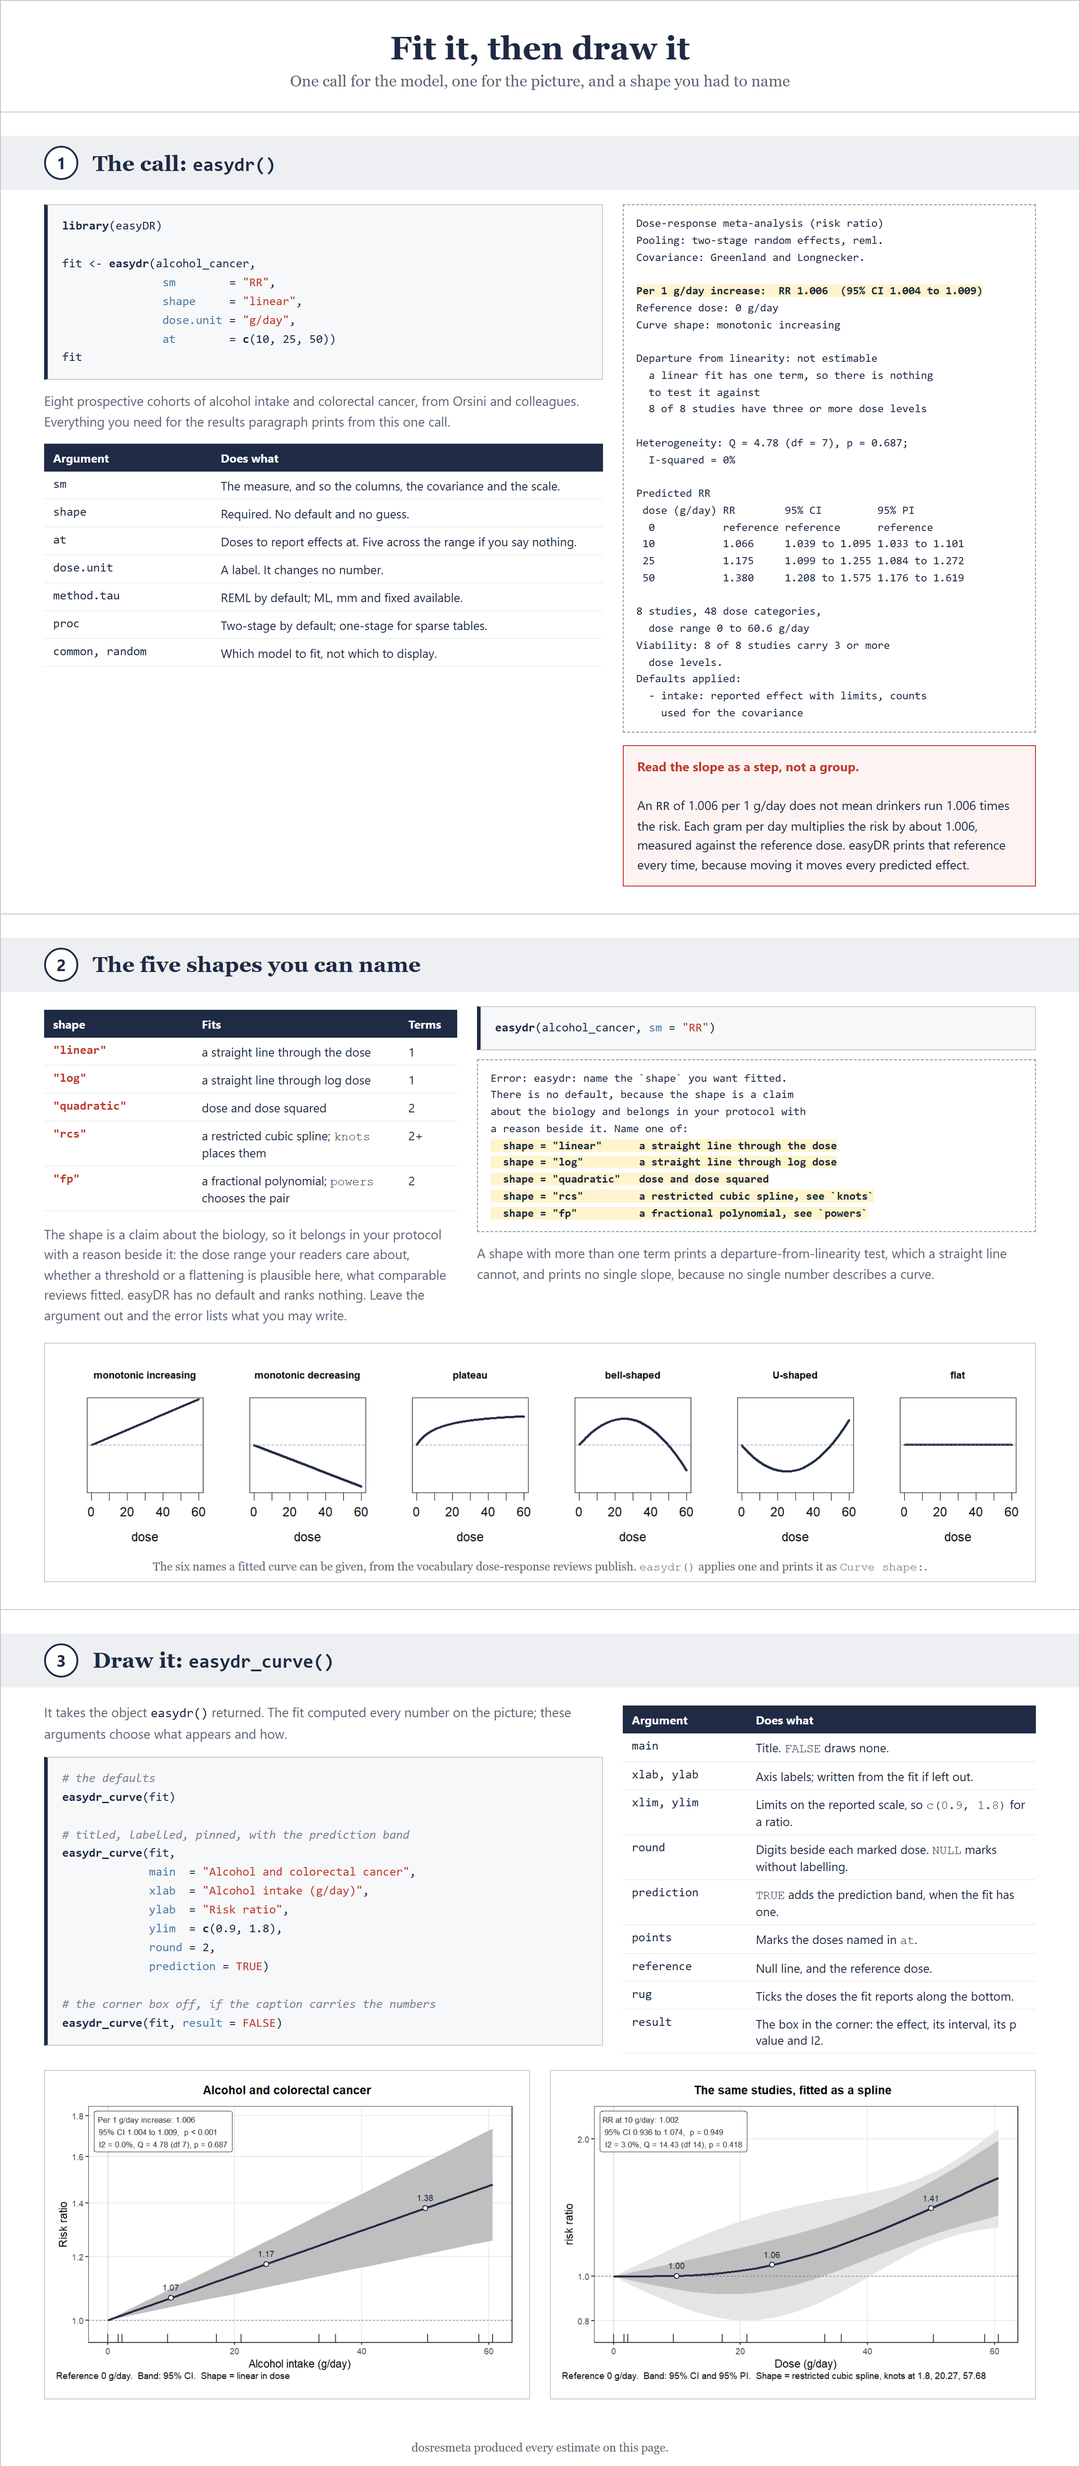
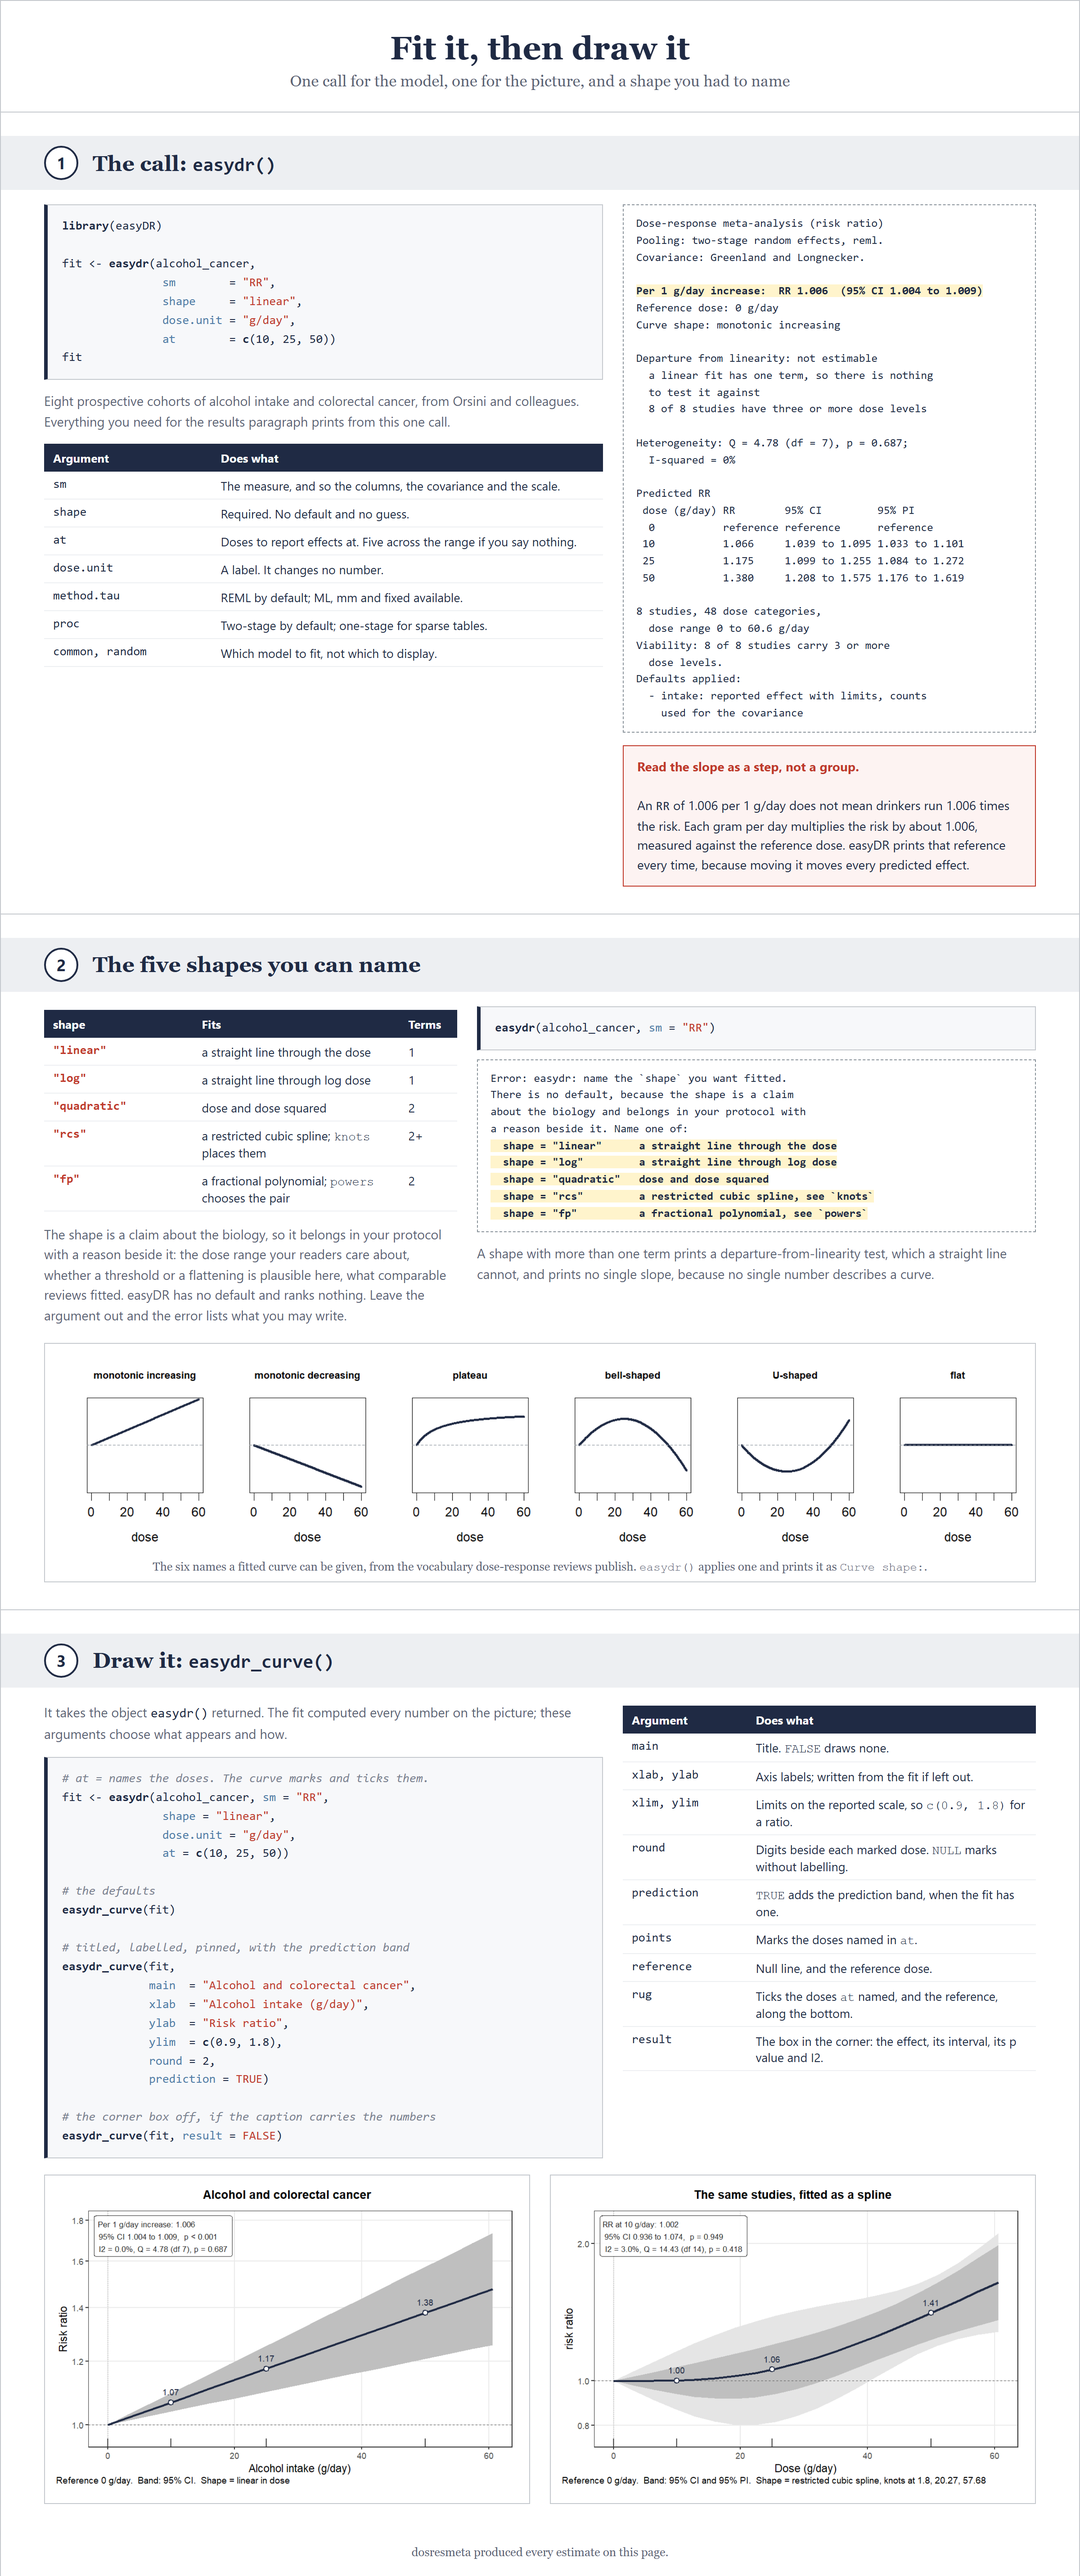
docs: one runnable block per README chunk, and rug ticks only the reported doses
Follows the easydta README: each chunk is a collapsible whose body is a single
fenced block holding the whole runnable thing, so the one copy button on it
gives a reader something that runs as pasted. Before this the code and its
output were two fences with two copy buttons, and no block stood alone.

- validation/reproduce.R is the whole published analysis in one pasteable
  file, and the validation section carries it verbatim. Verified by running it
  as a reader would, start to finish
- sections 2 to 5 each self-contained: library, fit, then the calls
- the curve's rug marks the doses `at` named plus the reference, four of them
  here, not the thinned eleven reported doses. There should be no band at the
  bottom, only ticks for the values the call asked for
- the Draw it example shows the `at` argument the ticks come from

R CMD check: Status OK. Tests: 878 pass, 0 fail.

diff --git a/tutorial/api.html b/tutorial/api.html
@@ -152,7 +152,13 @@ a reason beside it. Name one of:
           every number on the picture; these arguments choose what appears and
           how.
         </p>
-<pre class="code"><span class="c"># the defaults</span>
+<pre class="code"><span class="c"># at = names the doses. The curve marks and ticks them.</span>
+fit &lt;- <span class="f">easydr</span>(alcohol_cancer, <span class="a">sm</span> = <span class="s">"RR"</span>,
+               <span class="a">shape</span> = <span class="s">"linear"</span>,
+               <span class="a">dose.unit</span> = <span class="s">"g/day"</span>,
+               <span class="a">at</span> = <span class="f">c</span>(10, 25, 50))
+
+<span class="c"># the defaults</span>
 <span class="f">easydr_curve</span>(fit)
 
 <span class="c"># titled, labelled, pinned, with the prediction band</span>
@@ -177,7 +183,7 @@ a reason beside it. Name one of:
           <tr><td class="m">prediction</td><td><code>TRUE</code> adds the prediction band, when the fit has one.</td></tr>
           <tr><td class="m">points</td><td>Marks the doses named in <code>at</code>.</td></tr>
           <tr><td class="m">reference</td><td>Null line, and the reference dose.</td></tr>
-          <tr><td class="m">rug</td><td>Ticks the doses the fit reports along the bottom.</td></tr>
+          <tr><td class="m">rug</td><td>Ticks the doses <code>at</code> named, and the reference, along the bottom.</td></tr>
           <tr><td class="m">result</td><td>The box in the corner: the effect, its interval, its p value and I2.</td></tr>
         </table>
       </div>

diff --git a/README.md b/README.md
@@ -48,14 +48,16 @@ it locally, after `R CMD INSTALL .` so the chunks can call the package.
 
 ![One call and four things to do with it: easyDR has no formula argument, and folds the viability check and the curve label into the fit](man/figures/overview.png)
 
-<details open>
-<summary><code>{r the-one-call}</code> &mdash; the fit, the check that preceded it, the name of the curve</summary>
+<details>
+<summary><b>The one call, and what it returns</b>: <code>{r what-this-is}</code></summary>
 
 ```r
+# One entry point. Paste the whole block into R.
 library(easyDR)
 
 fit <- easydr(alcohol_cancer, sm = "RR", shape = "linear",
               dose.unit = "g/day", at = c(10, 25, 50))
+
 fit                 # the whole answer, printed at once
 summary(fit)        # the same, plus the coefficient and the per-study rows
 fit$viability       # the check that runs before the model
@@ -70,16 +72,21 @@ fit$curve_label     # the name the curve earned: "monotonic increasing"
 
 ![Install easyDR, lay the data out one row per exposure level per study, and let sm choose which columns are read](man/figures/data.png)
 
-<details open>
-<summary><code>{r install-and-look}</code> &mdash; install it, then look at the two bundled tables</summary>
+<details>
+<summary><b>Install it, then look at the data</b>: <code>{r install-and-data}</code></summary>
 
 ```r
+# Paste the whole block into R.
 # install.packages("remotes")
 remotes::install_github("vanioljantunes/easyDR")
+
 library(easyDR)
 
 head(alcohol_cancer)   # a binary outcome, one row per intake category
 head(aripiprazole)     # a continuous one: mean.e, sd.e, n.e
+
+# sm decides which columns are read, how the within-study covariance is
+# reconstructed, and whether the effect is drawn on a log axis.
 ```
 
 </details>
@@ -90,16 +97,21 @@ head(aripiprazole)     # a continuous one: mean.e, sd.e, n.e
 
 ![easydr() in one call, the five shapes you can name, and easydr_curve() with its arguments](man/figures/api.png)
 
-<details open>
-<summary><code>{r fit-and-draw}</code> &mdash; the call, the refusal when <code>shape</code> is missing, and the curve</summary>
+<details>
+<summary><b>The call, the refusal, and the curve</b>: <code>{r fit-and-draw}</code></summary>
 
 ```r
+# Paste the whole block into R.
+library(easyDR)
+
+# at = names the doses to report effects at. The curve marks and ticks them.
 fit <- easydr(alcohol_cancer, sm = "RR", shape = "linear",
               dose.unit = "g/day", at = c(10, 25, 50))
+fit
 
 # shape has no default. Leave it out and the error lists what you may write:
 # "linear", "log", "quadratic", "rcs", "fp".
-easydr(alcohol_cancer, sm = "RR")
+try(easydr(alcohol_cancer, sm = "RR"))
 
 # the curve, with every argument the picture used
 easydr_curve(fit,
@@ -119,11 +131,18 @@ easydr_curve(fit,
 
 ![easydr_forest, easydr_loo and easydr_funnel, all taking the object easydr returned](man/figures/plots.png)
 
-<details open>
-<summary><code>{r three-questions}</code> &mdash; what each study gave, whether one is carrying it, whether the small ones differ</summary>
+<details>
+<summary><b>Forest, leave-one-out, funnel</b>: <code>{r three-questions}</code></summary>
 
 ```r
-cvd <- easydr(alcohol_cvd, sm = "RR", shape = "linear", dose.unit = "g/day")
+# Paste the whole block into R. Three questions, three calls, each taking the
+# object easydr() returned.
+library(easyDR)
+
+fit <- easydr(alcohol_cancer, sm = "RR", shape = "linear",
+              dose.unit = "g/day", at = c(10, 25, 50))
+rcs <- easydr(alcohol_cancer, sm = "RR", shape = "rcs", dose.unit = "g/day")
+cvd <- easydr(alcohol_cvd,    sm = "RR", shape = "linear", dose.unit = "g/day")
 
 # what each study contributed
 easydr_forest(fit)$table                 # draws it, and the table prints itself
@@ -143,173 +162,59 @@ easydr_funnel(fit, labels = TRUE)$egger  # Egger's test, printed as a test
 
 ## 6. Validation: reproduce a published analysis
 
-Everything above is a picture. This section is not. Paste it in and you should
-get the numbers printed here, on your own machine.
+Everything above is a picture. This section is not. Run the script and you
+should get the values printed below, on your own machine.
 
 The example is the one the book uses: eight prospective cohorts of alcohol
 intake and colorectal cancer, analysed in Orsini et al. (2012) and bundled as
 `alcohol_cancer`.
 
-### Run it
+### Run it yourself
 
-<details open>
-<summary><code>{r setup}</code> &mdash; install and attach</summary>
+Paste the script into a fresh R session, or run it from the package root with
+`Rscript validation/reproduce.R`. It needs easyDR and nothing else: no data
+files, and it runs in a couple of seconds.
+
+<details>
+<summary><b>The whole analysis</b>: <code>validation/reproduce.R</code></summary>
 
 ```r
-# install.packages("remotes")
-remotes::install_github("vanioljantunes/easyDR")
+# easyDR: reproduce the published alcohol and colorectal cancer analysis.
+# Eight prospective cohorts, analysed in Orsini et al. (2012) and bundled as
+# alcohol_cancer. Paste the whole file into R; no data files are needed.
+# install.packages("remotes"); remotes::install_github("vanioljantunes/easyDR")
+
 library(easyDR)
-```
 
-</details>
-
-<details open>
-<summary><code>{r step-1-fit}</code> &mdash; one call, and the whole answer prints</summary>
-
-```r
+# One call. No formula argument and no logrr column: sm = "RR" tells easyDR to
+# read the counts and the reported risk ratios, derive the contrasts, and
+# reconstruct the within-study covariances.
 fit <- easydr(alcohol_cancer, sm = "RR", shape = "linear",
               dose.unit = "g/day", at = c(10, 25, 50))
 fit
-```
 
-```text
-Dose-response meta-analysis (risk ratio)
-Pooling: two-stage random effects, reml. Covariance: Greenland and Longnecker.
-
-Per 1 g/day increase:  RR 1.006  (95% CI 1.004 to 1.009)
-Reference dose: 0 g/day
-Curve shape: monotonic increasing
-
-Departure from linearity: not estimable
-  a linear fit has one term, so there is nothing to test it against
-  8 of 8 studies have three or more dose levels
-
-Heterogeneity: Q = 4.78 (df = 7), p = 0.687; I-squared = 0%
-
-Predicted RR
- dose (g/day) RR        95% CI         95% PI
-  0           reference reference      reference
- 10           1.066     1.039 to 1.095 1.033 to 1.101
- 25           1.175     1.099 to 1.255 1.084 to 1.272
- 50           1.380     1.208 to 1.575 1.176 to 1.619
-
-8 studies, 48 dose categories, dose range 0 to 60.6 g/day
-Viability: 8 of 8 studies carry 3 or more dose levels.
-Defaults applied:
-  - intake: reported effect with limits, counts used for the covariance
-```
-
-</details>
-
-No `formula` argument, and no `logrr` column. `sm = "RR"` tells easyDR to read
-the counts and the reported risk ratios, then derive the contrasts and
-reconstruct the within-study covariances. The risk ratios at 10, 25 and 50
-g/day are in that same print, each one measured against the reference dose,
-which is why the reference row stays in the table.
-
-<details open>
-<summary><code>{r step-2-summary}</code> &mdash; the coefficient, the fit, and what each cohort gave</summary>
-
-```r
+# The coefficient on the log scale, the goodness of fit, and what each cohort
+# contributed. This is the number to quote in a methods section.
 summary(fit)
-```
 
-```text
-[everything the fit printed above, then:]
+# The rows behind the forest plot, with weights. The figure is drawn and the
+# table prints itself; the stored values keep full precision.
+easydr_forest(fit)$table
 
-Goodness of fit: deviance D = 48.21 (df = 39), p = 0.148
-  R-squared 0.32, adjusted 0.302
-  deviance of the fitted model against a saturated fit
-
-Pooled trend on the log scale, per 1 g/day
-  b = 0.0064373,  SE = 0.0013521,  p < 0.001
-  no intercept: every contrast runs against the study's own reference category
-
-Per-study contribution
- study levels dose range design slope (log scale) SE
- atm   6      0 to 58.43 ir      0.007141         0.003912
- hpm   6      0 to 59.4  ir      0.009169         0.003044
- io    6      0 to 60.6  ir      0.002359         0.004106
- n1    6      0 to 58.4  ir     -0.002127         0.006536
- n2    6      0 to 57.6  ir      0.004905         0.004073
- nt    6      0 to 50.33 ir      0.012630         0.005995
- ntm   6      0 to 56.23 ir      0.006131         0.003314
- nym   6      0 to 57    ir      0.006880         0.002990
-```
-
-</details>
-
-The coefficient on the log scale is the number to quote in a methods section,
-and the one to check an install against. `summary()` reports it, so nothing has
-to be pulled out of the fitted object and rounded by hand.
-
-<details open>
-<summary><code>{r step-3-forest}</code> &mdash; the rows behind the forest plot, with weights</summary>
-
-```r
-easydr_forest(fit)$table     # draws the forest, and the table prints itself
-```
-
-```text
- study levels dose range trend      SE        weight %
- atm   6      0 to 58.4   0.0071406 0.0039123 11.94
- hpm   6      0 to 59.4   0.0091691 0.0030437 19.73
- io    6      0 to 60.6   0.0023590 0.0041061 10.84
- n1    6      0 to 58.4  -0.0021265 0.0065361  4.28
- n2    6      0 to 57.6   0.0049053 0.0040725 11.02
- nt    6      0 to 50.3   0.0126300 0.0059954  5.09
- ntm   6      0 to 56.2   0.0061313 0.0033139 16.65
- nym   6      0 to 57     0.0068797 0.0029901 20.45
-```
-
-</details>
-
-Each plot returns the table it drew. These rows are the engine's own
-first-stage estimates. The printing rounds, the stored values do not, so
-`as.data.frame()` gives them back untouched.
-
-<details open>
-<summary><code>{r step-4-funnel}</code> &mdash; small-study effects</summary>
-
-```r
+# Small-study effects. Egger's regression, printed as a test result with its
+# power warning. Deeks' test belongs to diagnostic test accuracy.
 easydr_funnel(fit)$egger
-```
 
-```text
-Egger's test for small-study effects
-  intercept -1.0879 (SE 1.2204)
-  t = -0.89 on 6 df, p = 0.407
-  8 studies: fewer than 10, so the test has little power and a null result means very little
-```
-
-</details>
-
-Egger's regression. Deeks' test belongs to diagnostic test accuracy, so it does
-not apply here. The figure prints the same power warning above its panel.
-
-<details open>
-<summary><code>{r step-5-checks}</code> &mdash; the two checks easyDR ran for you</summary>
-
-```r
+# The two checks easyDR ran before and after the model.
 fit$curve_label
 fit$viability
-```
 
-```text
-[1] "monotonic increasing"
-Dose-response viability
-
- study levels has_reference two_stage_ok
- atm   6      TRUE          TRUE
- hpm   6      TRUE          TRUE
- io    6      TRUE          TRUE
- n1    6      TRUE          TRUE
- n2    6      TRUE          TRUE
- nt    6      TRUE          TRUE
- ntm   6      TRUE          TRUE
- nym   6      TRUE          TRUE
-
-No blocking problems found.
+# The curve, with every argument the README figure used.
+easydr_curve(fit,
+             main  = "Alcohol and colorectal cancer",
+             xlab  = "Alcohol intake (g/day)",
+             ylab  = "Risk ratio",
+             round = 2)
 ```
 
 </details>
